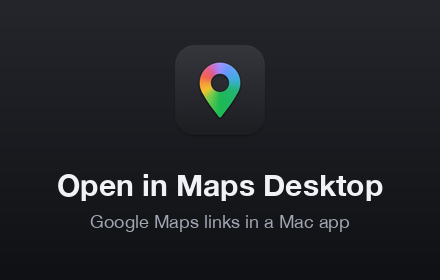
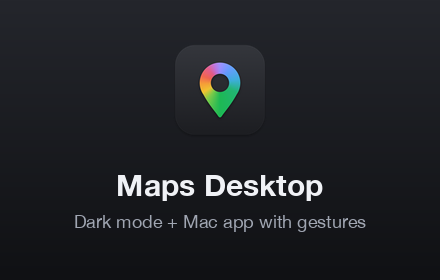
Rename the extension: Maps Desktop: Dark Mode + Mac App with Gestures
The old name only described opening links in the app. The new one covers the
dark theme and the desktop app with trackpad gestures. Version 1.4.1, with the
store texts and promo tile updated to match.

Changed region(s): [[0.1182, 0.6, 0.8864, 0.7143], [0.1477, 0.7714, 0.8273, 0.8286]]

diff --git a/Sources/ChromeExtension.swift b/Sources/ChromeExtension.swift
@@ -40,7 +40,7 @@ enum ChromeExtension {
         guard UserDefaults.standard.string(forKey: stateKey) == nil else { return }   // уже подключено ссылкой
         let alert = NSAlert()
         alert.messageText = L("Open Google Maps links from Chrome in Maps Desktop?")
-        alert.informativeText = L("Chrome opens map links in a tab. The free “Open in Maps Desktop” extension sends them here instead, and Chrome stays your browser.\n\nClick Install, then “Add to Chrome” on the extension page and Connect on the page that opens next. Chrome asks to open Maps Desktop — tick “Always allow”.\n\nYou can do it later: Maps Desktop ▸ Install Chrome Extension…")
+        alert.informativeText = L("Chrome opens map links in a tab. The free Maps Desktop extension sends them here instead, and Chrome stays your browser.\n\nClick Install, then “Add to Chrome” on the extension page and Connect on the page that opens next. Chrome asks to open Maps Desktop — tick “Always allow”.\n\nYou can do it later: Maps Desktop ▸ Install Chrome Extension…")
         alert.addButton(withTitle: L("Install…"))
         alert.addButton(withTitle: L("Not Now"))
         if alert.runModal() == .alertFirstButtonReturn {

diff --git a/Sources/main.swift b/Sources/main.swift
@@ -163,7 +163,7 @@ final class AppDelegate: NSObject, NSApplicationDelegate, NSMenuDelegate {
         controller?.applyTheme()
     }
 
-    /// Ссылки на карты из Chrome передает приложению расширение «Open in Maps Desktop».
+    /// Ссылки на карты из Chrome передает приложению расширение Maps Desktop.
     @objc private func installExtension(_ sender: Any?) { ChromeExtension.install() }
 
     private static let repo = URL(string: "https://github.com/donsamoylov/maps-desktop")!

diff --git a/chrome-extension/welcome.html b/chrome-extension/welcome.html
@@ -2,7 +2,7 @@
 <html>
 <head>
 <meta charset="utf-8">
-<title>Open in Maps Desktop</title>
+<title>Maps Desktop</title>
 <style>
   :root { color-scheme: light dark; --line: color-mix(in srgb, CanvasText 14%, transparent); }
   [hidden] { display: none !important; }

diff --git a/tools/store_graphics.py b/tools/store_graphics.py
@@ -135,8 +135,8 @@ def promo_small():
     d = ImageDraw.Draw(img)
     ic = icon(112)
     img.paste(ic, (164, 34), ic)
-    for text, y, size, weight, color in [("Open in Maps Desktop", 166, 30, 760, TEXT),
-                                         ("Google Maps links in a Mac app", 210, 18, 500, MUTED)]:
+    for text, y, size, weight, color in [("Maps Desktop", 166, 30, 760, TEXT),
+                                         ("Dark mode + Mac app with gestures", 210, 18, 500, MUTED)]:
         f = font(size, weight)
         d.text(((440 - f.getlength(text)) / 2, y), text, font=f, fill=color)
     return img.convert("RGB")

diff --git a/README.md b/README.md
@@ -43,15 +43,15 @@ Google has no official Google Maps app for Mac, and the website in a browser tab
    xattr -dr com.apple.quarantine "/Applications/Maps Desktop.app"
    ```
 4. Sign in to your Google account inside Maps Desktop to see saved places and history.
-5. Using Chrome? Accept the offer to add the **Open in Maps Desktop** extension, and Google Maps links you click in Chrome will open in the app ([details below](#open-google-maps-links-from-chrome)).
+5. Using Chrome? Accept the offer to add the **Maps Desktop** extension, and Google Maps links you click in Chrome will open in the app ([details below](#open-google-maps-links-from-chrome)).
 
 Updates install themselves from then on; to check right away, choose **Maps Desktop ▸ Check for Updates…**. Older versions are on the [Releases](../../releases) page.
 
 ### Open Google Maps links from Chrome
 
-The **Open in Maps Desktop** extension hands Google Maps links you click in Chrome — in Gmail, Slack, Telegram Web, search results or links other apps open in Chrome — to the app. Your default browser stays the same. It also gives Google Maps in Chrome the same dark theme as the app: it follows the system, or right-click the extension button ▸ **Google Maps theme** to keep it **Light** or **Dark**. Clicking the button only pauses or resumes opening links in the app. The dark theme works on any computer; opening links in the app needs a Mac.
+The **Maps Desktop: Dark Mode + Mac App with Gestures** extension hands Google Maps links you click in Chrome — in Gmail, Slack, Telegram Web, search results or links other apps open in Chrome — to the app. Your default browser stays the same. It also gives Google Maps in Chrome the same dark theme as the app: it follows the system, or right-click the extension button ▸ **Google Maps theme** to keep it **Light** or **Dark**. Clicking the button only pauses or resumes opening links in the app. The dark theme works on any computer; opening links in the app needs a Mac.
 
-**[Install Open in Maps Desktop from the Chrome Web Store](https://chromewebstore.google.com/detail/open-in-maps-desktop/hnbhfnadfajjbilkkmpennlmlkbhjefa)**
+**[Install the Maps Desktop extension from the Chrome Web Store](https://chromewebstore.google.com/detail/open-in-maps-desktop/hnbhfnadfajjbilkkmpennlmlkbhjefa)**
 
 How the app and the extension find each other:
 
@@ -69,10 +69,10 @@ The first time a map opens in the app, the extension asks whether to close the C
 No. Google offers Google Maps on the web, iPhone and Android only. Maps Desktop is an unofficial desktop app that shows the real Google Maps website.
 
 **How do I open Google Maps links in an app instead of a browser on Mac?**
-Install the [Open in Maps Desktop](https://chromewebstore.google.com/detail/open-in-maps-desktop/hnbhfnadfajjbilkkmpennlmlkbhjefa) extension for Chrome — see above.
+Install the [Maps Desktop extension](https://chromewebstore.google.com/detail/open-in-maps-desktop/hnbhfnadfajjbilkkmpennlmlkbhjefa) for Chrome — see above.
 
 **How do I get Google Maps dark mode on a Mac?**
-The Google Maps website has no dark mode on desktop. Maps Desktop adds one that switches together with macOS, and the [Open in Maps Desktop](https://chromewebstore.google.com/detail/open-in-maps-desktop/hnbhfnadfajjbilkkmpennlmlkbhjefa) extension adds the same theme to Google Maps in Chrome, on any computer.
+The Google Maps website has no dark mode on desktop. Maps Desktop adds one that switches together with macOS, and the [Maps Desktop extension](https://chromewebstore.google.com/detail/open-in-maps-desktop/hnbhfnadfajjbilkkmpennlmlkbhjefa) adds the same theme to Google Maps in Chrome, on any computer.
 
 **Does it need a Google Maps API key?**
 No. It is the regular Google Maps website, so search, directions, Street View and your account work as usual.

diff --git a/store/chrome-web-store.md b/store/chrome-web-store.md
@@ -1,26 +1,28 @@
-# Chrome Web Store listing — Open in Maps Desktop
+# Chrome Web Store listing — Maps Desktop: Dark Mode + Mac App with Gestures
 
 Everything to paste into the [Chrome Web Store Developer Dashboard](https://chrome.google.com/webstore/devconsole).
 Upload package: `build/maps-desktop-chrome-extension.zip` (made by `tools/pack_extension.sh`, also attached to every GitHub release).
 
 ## Store listing
 
-**Name** (from the manifest): Open in Maps Desktop
+**Name** (from the manifest): Maps Desktop: Dark Mode + Mac App with Gestures
 
 **Summary** (≤132 chars, from the manifest):
-Dark mode for Google Maps in Chrome. On a Mac it also opens Google Maps links in the free Maps Desktop app.
+Dark mode for Google Maps in Chrome. On a Mac, map links open in the free Maps Desktop app with natural trackpad gestures.
 
 **Description:**
 
-Dark mode for Google Maps in Chrome — and, on a Mac, Google Maps links that open in a real app instead of yet another browser tab.
+Dark mode for Google Maps in Chrome — and, on a Mac, a real desktop app with natural trackpad gestures that opens your Google Maps links instead of yet another browser tab.
 
 🌙 DARK THEME FOR GOOGLE MAPS — on any computer
 Google Maps has no dark mode on the desktop. This extension gives Google Maps in Chrome the same dark theme as the Maps Desktop app: the side panel, menus and the map itself, in cool night-blue colours like Google Maps on iPhone. Photos, satellite view and Street View keep their real colours.
 ✔ Follows your system appearance, or right-click the extension button ▸ Google Maps theme to keep it Light or Dark
 ✔ Runs only on www.google.com/maps and changes only how the page looks
 
-🔗 OPEN MAP LINKS IN MAPS DESKTOP — on a Mac
-Maps Desktop is a free, open-source Google Maps app for macOS with a dark mode, natural trackpad gestures and its own window in the Dock. When you click a Google Maps link in Chrome — in Gmail, Slack, Telegram Web, a search result or a shared place — the extension hands it to Maps Desktop and the place, search or route opens there.
+🖐 DESKTOP APP WITH TRACKPAD GESTURES — on a Mac
+Maps Desktop is a free, open-source Google Maps app for macOS with its own window in the Dock, the same dark mode and natural trackpad gestures: a two-finger swipe pans the map like on a phone, a pinch zooms, and lists and panels scroll normally. In a browser, two-finger scroll only zooms Google Maps.
+
+When you click a Google Maps link in Chrome — in Gmail, Slack, Telegram Web, a search result or a shared place — the extension hands it to Maps Desktop and the place, search or route opens there.
 ✔ Works with all Google Maps links: google.com/maps, maps.google.com, maps.app.goo.gl short links, places, searches, directions and coordinates
 ✔ Apple Maps links (maps.apple.com) open as the same place in Google Maps
 ✔ Reload a Google Maps tab to send it to the app too

diff --git a/CLAUDE.md b/CLAUDE.md
@@ -32,7 +32,7 @@ Mac-приложение для сайта Google Карт: Swift + AppKit + Web
   от macOS; щипок передается Google как прокрутка с Ctrl, как это делает Chrome. Сайту приложение
   представляется Chrome (`MapWindow.swift`): так у Google не моргают подписи.
 - `Sources/LocationBridge.swift` — геолокация страницы берется у macOS.
-- `chrome-extension/` — расширение «Open in Maps Desktop»: на Mac ссылки на карты из Chrome →
+- `chrome-extension/` — расширение «Maps Desktop: Dark Mode + Mac App with Gestures»: на Mac ссылки на карты из Chrome →
   `mapsdesktop://open?url=…`; на любой системе — та же темная тема на www.google.com/maps (content scripts
   `dark-theme.js` + `theme-page.js` в мире страницы, `theme-bridge.js` передает им настройку темы). Лежит внутри приложения, при запуске копируется в
   `~/Library/Application Support/Maps Desktop/Chrome Extension` (`Sources/ChromeExtension.swift`).

diff --git a/PRIVACY.md b/PRIVACY.md
@@ -1,8 +1,8 @@
-# Privacy Policy — Maps Desktop and “Open in Maps Desktop”
+# Privacy Policy — Maps Desktop and its Chrome extension
 
-_Last updated: October 30, 2026_
+_Last updated: November 2, 2026_
 
-Maps Desktop (the Mac app) and Open in Maps Desktop (the Chrome extension) are open-source projects. Their full source code is published at <https://github.com/donsamoylov/maps-desktop>.
+Maps Desktop (the Mac app) and Maps Desktop: Dark Mode + Mac App with Gestures (the Chrome extension) are open-source projects. Their full source code is published at <https://github.com/donsamoylov/maps-desktop>.
 
 ## The Chrome extension
 
